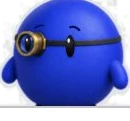
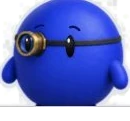
Site: the crew stand free in the hero (no portrait cards), so there is no card-to-cut-out fade in flight; the landing cut-outs no longer carry the white strip of the prompt box under their feet (#120)

Changed region(s): [[0.0, 0.8678, 1.0, 0.8926]]

diff --git a/docs/index.html b/docs/index.html
@@ -67,13 +67,13 @@
 <section class="hero track" data-scene="hero" aria-labelledby="hero-title">
   <div class="sticky">
     <div class="fcs" aria-hidden="true">
-      <div class="fc" style="--x:6;--y:16;--w:170;--d:1;--mx:4;--my:6;--mw:78"><div class="fi" style="--b:4s"><img src="assets/crew/v2/card-ra.webp" width="576" height="720" alt="" loading="lazy" decoding="async" /></div></div>
-      <div class="fc" style="--x:23;--y:13;--w:104;--d:0.6;--mx:30;--my:2;--mw:50"><div class="fi" style="--b:3.2s"><img src="assets/crew/v2/card-tara.webp" width="576" height="720" alt="" loading="lazy" decoding="async" /></div></div>
-      <div class="fc" style="--x:72;--y:13;--w:124;--d:0.8;--mx:46;--my:10;--mw:62"><div class="fi" style="--b:4.1s"><img src="assets/crew/v2/card-kavi.webp" width="576" height="720" alt="" loading="lazy" decoding="async" /></div></div>
-      <div class="fc" style="--x:84;--y:40;--w:138;--d:0.9;--mx:70;--my:3;--mw:58"><div class="fi" style="--b:3.6s"><img src="assets/crew/v2/card-chitra.webp" width="576" height="720" alt="" loading="lazy" decoding="async" /></div></div>
-      <div class="fc" style="--x:14;--y:56;--w:128;--d:0.8;--mx:76;--my:34;--mw:66"><div class="fi" style="--b:4.4s"><img src="assets/crew/v2/card-laya.webp" width="576" height="720" alt="" loading="lazy" decoding="async" /></div></div>
-      <div class="fc" style="--x:20;--y:84;--w:104;--d:0.6;--mx:58;--my:50;--mw:48"><div class="fi" style="--b:3.8s"><img src="assets/crew/v2/card-rasika.webp" width="576" height="720" alt="" loading="lazy" decoding="async" /></div></div>
-      <div class="fc" style="--x:68;--y:76;--w:120;--d:0.7;--mx:12;--my:48;--mw:64"><div class="fi" style="--b:4.7s"><img src="assets/crew/v2/card-mala.webp" width="576" height="720" alt="" loading="lazy" decoding="async" /></div></div>
+      <div class="fc" style="--x:6;--y:16;--w:183;--d:1;--mx:4;--my:6;--mw:78"><div class="fi" style="--b:4s"><img src="assets/crew/hero/ra.webp" width="488" height="563" alt="" loading="lazy" decoding="async" /></div></div>
+      <div class="fc" style="--x:23;--y:13;--w:95;--d:0.6;--mx:30;--my:2;--mw:50"><div class="fi" style="--b:3.2s"><img src="assets/crew/hero/tara.webp" width="291" height="270" alt="" loading="lazy" decoding="async" /></div></div>
+      <div class="fc" style="--x:72;--y:13;--w:105;--d:0.8;--mx:46;--my:10;--mw:62"><div class="fi" style="--b:4.1s"><img src="assets/crew/hero/kavi.webp" width="301" height="501" alt="" loading="lazy" decoding="async" /></div></div>
+      <div class="fc" style="--x:84;--y:40;--w:124;--d:0.9;--mx:70;--my:3;--mw:58"><div class="fi" style="--b:3.6s"><img src="assets/crew/hero/chitra.webp" width="343" height="536" alt="" loading="lazy" decoding="async" /></div></div>
+      <div class="fc" style="--x:14;--y:56;--w:108;--d:0.8;--mx:76;--my:34;--mw:66"><div class="fi" style="--b:4.4s"><img src="assets/crew/hero/laya.webp" width="309" height="483" alt="" loading="lazy" decoding="async" /></div></div>
+      <div class="fc" style="--x:20;--y:84;--w:124;--d:0.6;--mx:58;--my:50;--mw:48"><div class="fi" style="--b:3.8s"><img src="assets/crew/hero/rasika.webp" width="380" height="244" alt="" loading="lazy" decoding="async" /></div></div>
+      <div class="fc" style="--x:68;--y:76;--w:120;--d:0.7;--mx:12;--my:48;--mw:64"><div class="fi" style="--b:4.7s"><img src="assets/crew/hero/mala.webp" width="354" height="381" alt="" loading="lazy" decoding="async" /></div></div>
     </div>
     <div class="hero-copy" data-hero-copy>
       <p class="eyebrow">RasanAI Studio for Mac</p>

diff --git a/docs/assets/home.js b/docs/assets/home.js
@@ -181,7 +181,7 @@
     layer.className = "cflight"; layer.setAttribute("aria-hidden", "true");
     var fl = [];
     $$(".fc", heroEl).forEach(function (c) {
-      var im = $(".fi img", c), m = im && /card-([a-z]+)\.webp/.exec(im.getAttribute("src") || "");
+      var im = $(".fi img", c), m = im && /(?:card-|crew\/hero\/)([a-z]+)\.webp/.exec(im.getAttribute("src") || "");
       if (!m || !BOX[m[1]]) return;
       var d = parseFloat(c.style.getPropertyValue("--d")) || 1;
       var box = document.createElement("div"); box.className = "cf";
@@ -230,16 +230,19 @@
           f.box.style.transform = "translate3d(" + lerp(scx, tcx, e).toFixed(2) + "px," + (lerp(scy, tcy, e) - lift).toFixed(2) + "px,0)";
           if (f.sw !== sw || f.sh !== sh) { f.sw = sw; f.sh = sh; f.card.style.width = sw + "px"; f.card.style.height = sh + "px"; f.card.style.left = -sw / 2 + "px"; f.card.style.top = -sh / 2 + "px"; }
           if (Math.abs(f.tw - tw) > .01 || Math.abs(f.th - th) > .01) { f.tw = tw; f.th = th; f.cut.style.width = tw + "px"; f.cut.style.height = th + "px"; f.cut.style.left = -tw / 2 + "px"; f.cut.style.top = -th / 2 + "px"; }
-          var ks = lerp(1, Math.min(tw / sw, th / sh), e), s0 = sh * .78 / th, cs = lerp(s0, 1, e);
+          var ks = lerp(1, Math.min(tw / sw, th / sh), e), s0 = sh / th, cs = lerp(s0, 1, e);
           f.card.style.transform = "scale(" + ks.toFixed(4) + ")";
           // every card sheds its background early in the move, together, before the window is up: only the characters fly
-          var shed = seg(vq, .04, .26);
-          f.card.style.opacity = (f.base * (1 - shed)).toFixed(3);
+          // the same character cut two ways (same framing): the hero's sharp render hands over to the screenshot's own pixels
+          // late in the flight, when they are small and on top of each other
+          var shed = seg(t, .72, .96);
+          f.card.style.opacity = (f.base * (1 - shed) + shed * 0).toFixed(3);
           f.cut.style.transform = "scale(" + cs.toFixed(4) + ")";
           f.cut.style.opacity = shed.toFixed(3);
           // feet tuck behind the prompt box's rim, as in the screenshot
           var over = Math.max(0, ty + th - rimY) * ease(seg(t, .6, 1));
           f.cut.style.clipPath = over > .01 ? "inset(0 0 " + (over / cs).toFixed(2) + "px 0)" : "none";
+          f.card.style.clipPath = over > .01 ? "inset(0 0 " + (over / ks).toFixed(2) + "px 0)" : "none";
         });
       },
       reset: function () { setShown(false); setEmpty(false); setAway(false); homeWin.style.transform = ""; }

diff --git a/docs/assets/home.css b/docs/assets/home.css
@@ -55,8 +55,9 @@
 .fcs { position: relative; height: 300px; margin: 0 auto; max-width: 560px; }
 .fc { position: absolute; left: calc(var(--mx, 0) * 1%); top: calc(var(--my, 0) * 1%); width: calc(var(--mw, 50) * 1px); display: none; }
 .fc[style*="--mx"] { display: block; }
-.fi { aspect-ratio: 4 / 5; border-radius: 10px; overflow: hidden; background: linear-gradient(#c9b4c4, #f2c9a8); box-shadow: 0 10px 26px -12px rgba(27, 31, 94, .38); opacity: calc(.6 + var(--d, 1) * .4); }
-.fi img { display: block; width: 100%; height: 100%; object-fit: cover; }
+.fi { opacity: calc(.6 + var(--d, 1) * .4); }
+/* the crew stand free, no cards: a soft shadow on the ground under each */
+.fi img { display: block; width: 100%; height: auto; filter: drop-shadow(0 16px 14px rgba(27, 31, 94, .16)); }
 .fi img.cut { object-fit: contain; padding: 8% 6% 0; }
 .hero-copy { text-align: center; padding: 28px var(--pad) 40px; max-width: 760px; margin: 0 auto; }
 .hero-copy .eyebrow { margin-bottom: 22px; }
@@ -91,7 +92,7 @@
 .cflight.on { visibility: visible; }
 .cf { position: absolute; left: 0; top: 0; width: 0; height: 0; will-change: transform; }
 .cf-card, .cf-cut { position: absolute; left: 0; top: 0; display: block; transform-origin: 50% 50%; will-change: transform, opacity; max-width: none; }
-.cf-card { border-radius: 10px; object-fit: cover; box-shadow: 0 10px 26px -12px rgba(27, 31, 94, .38); background: linear-gradient(#c9b4c4, #f2c9a8); }
+.cf-card { filter: drop-shadow(0 16px 14px rgba(27, 31, 94, .16)); }
 .cf-cut { object-fit: fill; opacity: 0; }
 
 /* ============ FIVE CALLS ============ */
